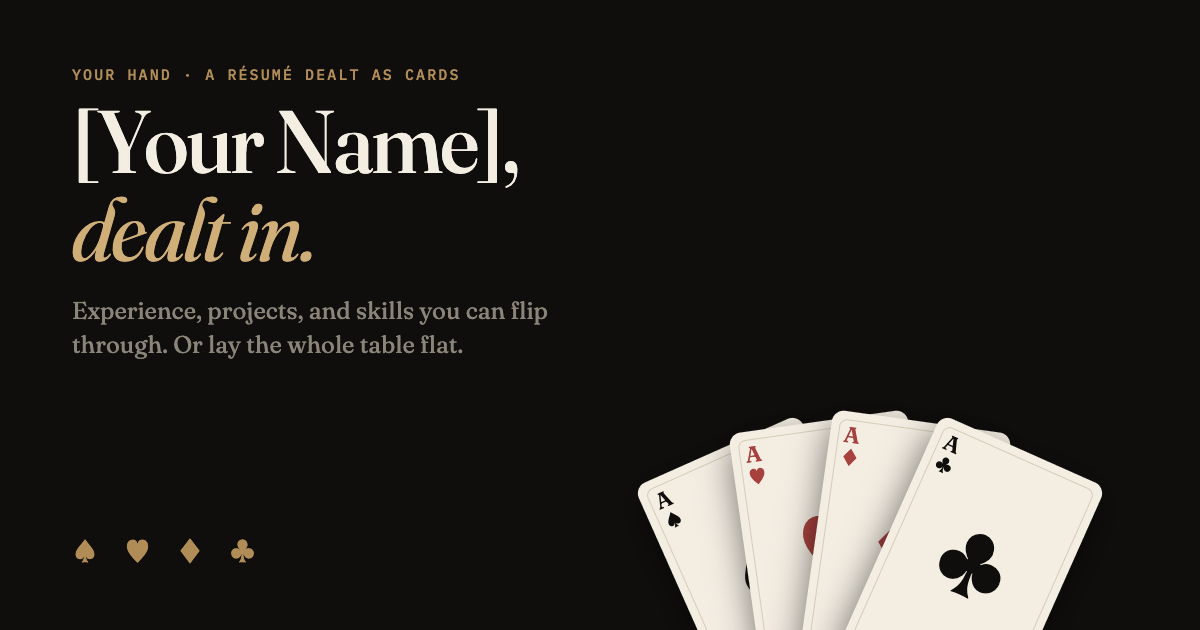
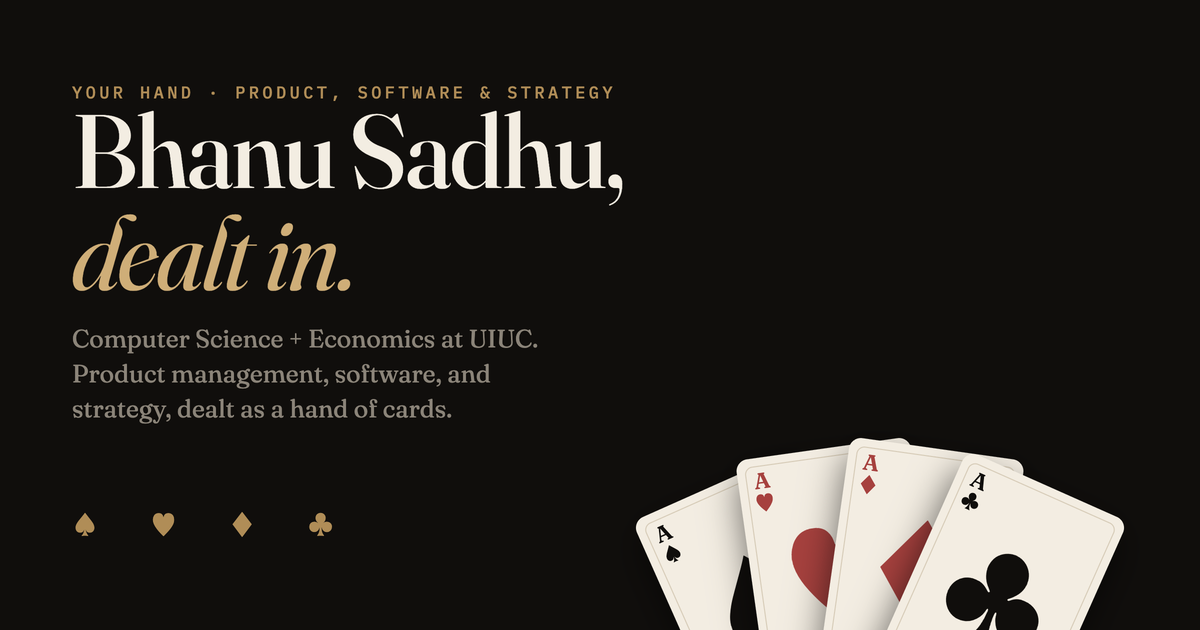
Fix face-card rows, fit six chip stacks, regenerate social preview
Face-card rows collapsed to zero width inside a grid wrapper because auto
margins shrink-wrap grid items; the wrapper is a plain block now. Chip
stacks fit six across and align to the top so the long product list does
not float the others. og.png carries the real name and positioning. Drops
the project page's Technology prose, which duplicated the stack tags.

diff --git a/src/styles/sections.css b/src/styles/sections.css
@@ -235,18 +235,25 @@
 
 /* ---------------- Face cards: one row per suit ---------------- */
 
+/* Block, not grid: each row centers itself with auto margins, which a
+   grid or flex parent would shrink-wrap to nothing. */
 .face-rows {
-  display: grid;
-  gap: 28px;
+  display: block;
+}
+
+.face-rows .row + .row {
+  margin-top: 28px;
 }
 
 /* ---------------- Chips ---------------- */
 
+/* Six stacks fit one row at the container width; chips line up along the
+   top so one long list does not float the rest. */
 .stacks {
   display: grid;
-  grid-template-columns: repeat(auto-fit, minmax(180px, 1fr));
+  grid-template-columns: repeat(auto-fit, minmax(168px, 1fr));
   gap: 40px 24px;
-  align-items: end;
+  align-items: start;
 }
 
 .stack {

diff --git a/src/pages/ProjectDetail.tsx b/src/pages/ProjectDetail.tsx
@@ -96,9 +96,6 @@ export function ProjectDetail() {
           </ul>
         </PlateSection>
       )}
-      <PlateSection label="Technology">
-        <p className="plate__p">{item.stack.join(' · ')}</p>
-      </PlateSection>
     </Plate>
   )
 }
